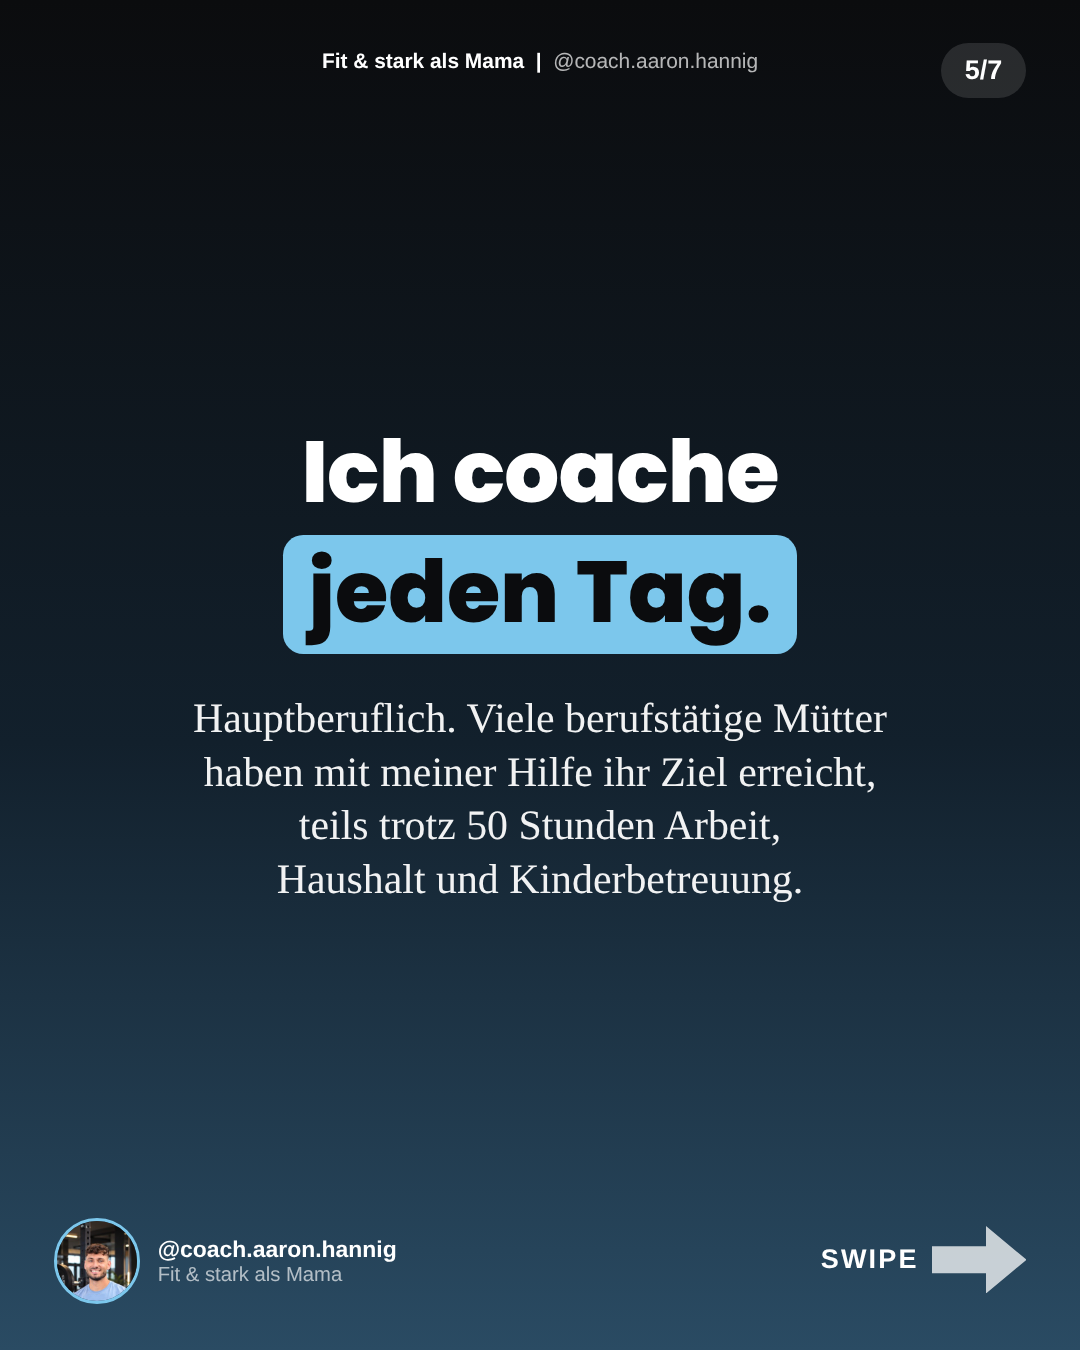
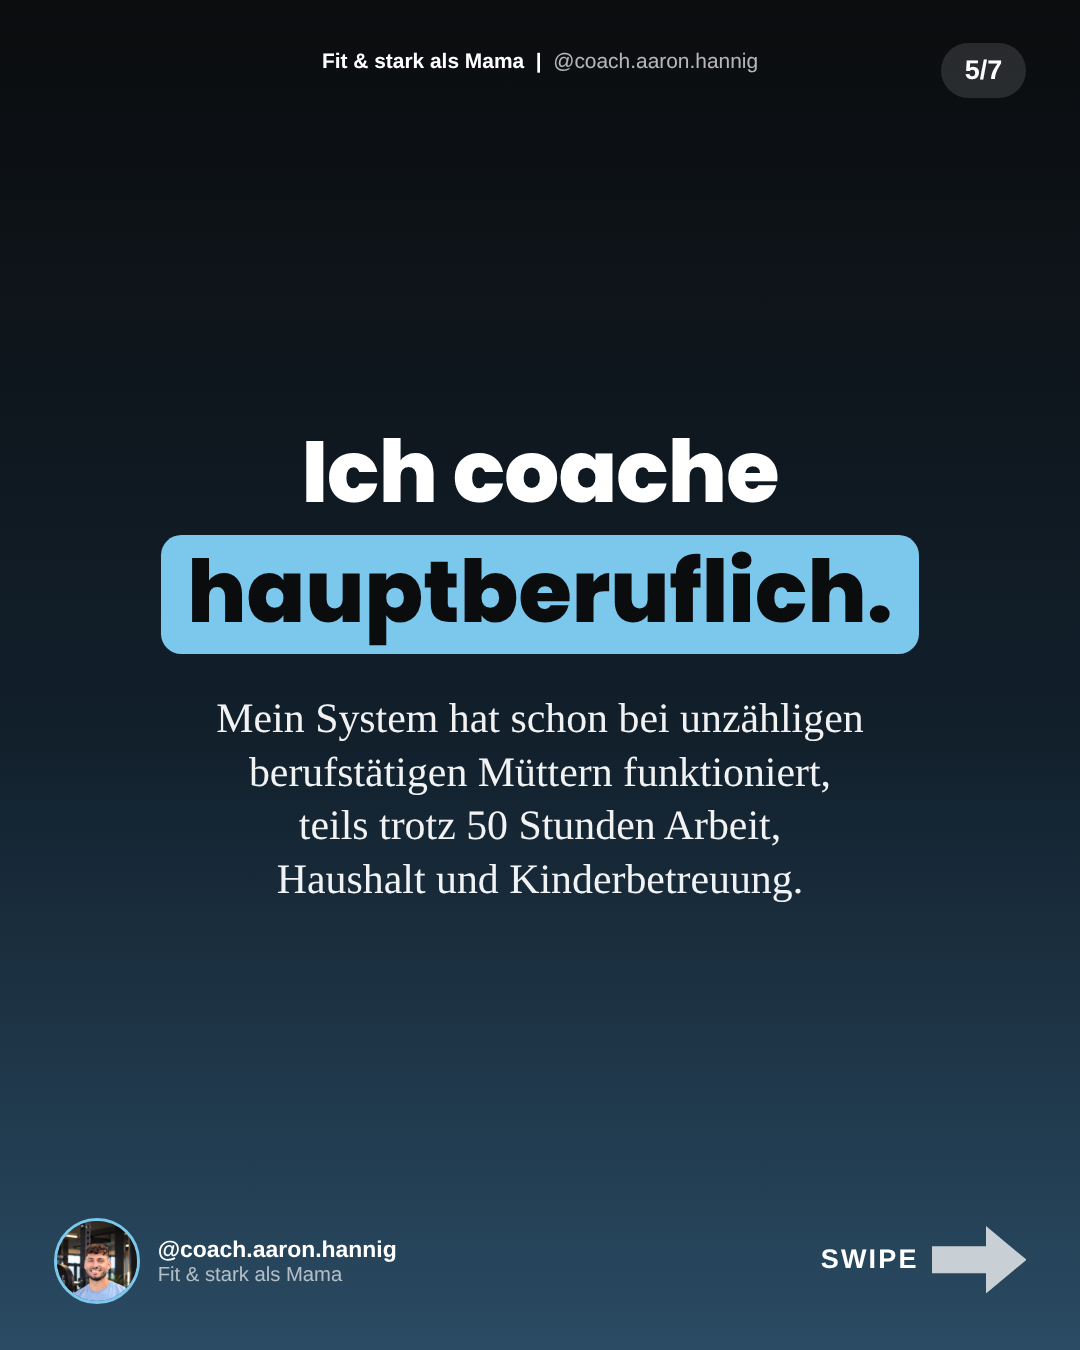
Mamas-Post Slide 5: hauptberuflich, System bei unzaehligen Muettern; Caption angepasst
Claude-Session: https://claude.ai/code/session_017uA92rT21Qw1uhBjvPei5d

Changed region(s): [[0.1222, 0.3733, 0.8556, 0.5911]]

diff --git a/posts/spezial/mama-suche/bau.py b/posts/spezial/mama-suche/bau.py
@@ -39,8 +39,8 @@ SLIDES = [
            ("l", ["Zeitsparende Methoden und Routinen<br>für deinen Mama-Alltag",
                   "Alltagstaugliche Ernährung, die die<br>ganze Familie mitisst",
                   "Jemand, der dir nicht nur zeigt, wie es geht,<br>sondern dich auch bei der Stange hält und<br>dir Lösungen für jedes Problem an die Hand gibt"])]),
-    ("p", [("h", "Ich coache"), ("b", "jeden Tag."),
-           ("t", "Hauptberuflich. Viele berufstätige Mütter<br>haben mit meiner Hilfe ihr Ziel erreicht,<br>"
+    ("p", [("h", "Ich coache"), ("b", "hauptberuflich."),
+           ("t", "Mein System hat schon bei unzähligen<br>berufstätigen Müttern funktioniert,<br>"
                  "teils trotz 50 Stunden Arbeit,<br>Haushalt und Kinderbetreuung.")]),
     ("p", [("h", "Dein Kind"), ("h", "braucht ein"), ("b", "Vorbild:"),
            ("t", "Keins, das auf den richtigen Zeitpunkt wartet.<br>Sondern eins, das jetzt anfängt.")]),

diff --git a/posts/spezial/mama-suche/post.md b/posts/spezial/mama-suche/post.md
@@ -18,7 +18,7 @@ Nicht im Januar. Nicht "wenn der Stress vorbei ist". Jetzt.
 
 Januar ist kein besserer Zeitpunkt, nur ein späterer. Und bis dahin kommen noch Weihnachtsfeiern, Plätzchen und volle Wochen dazu.
 
-Ich coache jeden Tag, hauptberuflich. Viele berufstätige Mütter haben mit meiner Hilfe ihr Ziel erreicht, teils trotz 50 Stunden Arbeit, Haushalt und Kinderbetreuung.
+Ich coache hauptberuflich. Mein System hat schon bei unzähligen berufstätigen Müttern funktioniert, teils trotz 50 Stunden Arbeit, Haushalt und Kinderbetreuung.
 
 Du willst das nicht allein durchziehen?
 
